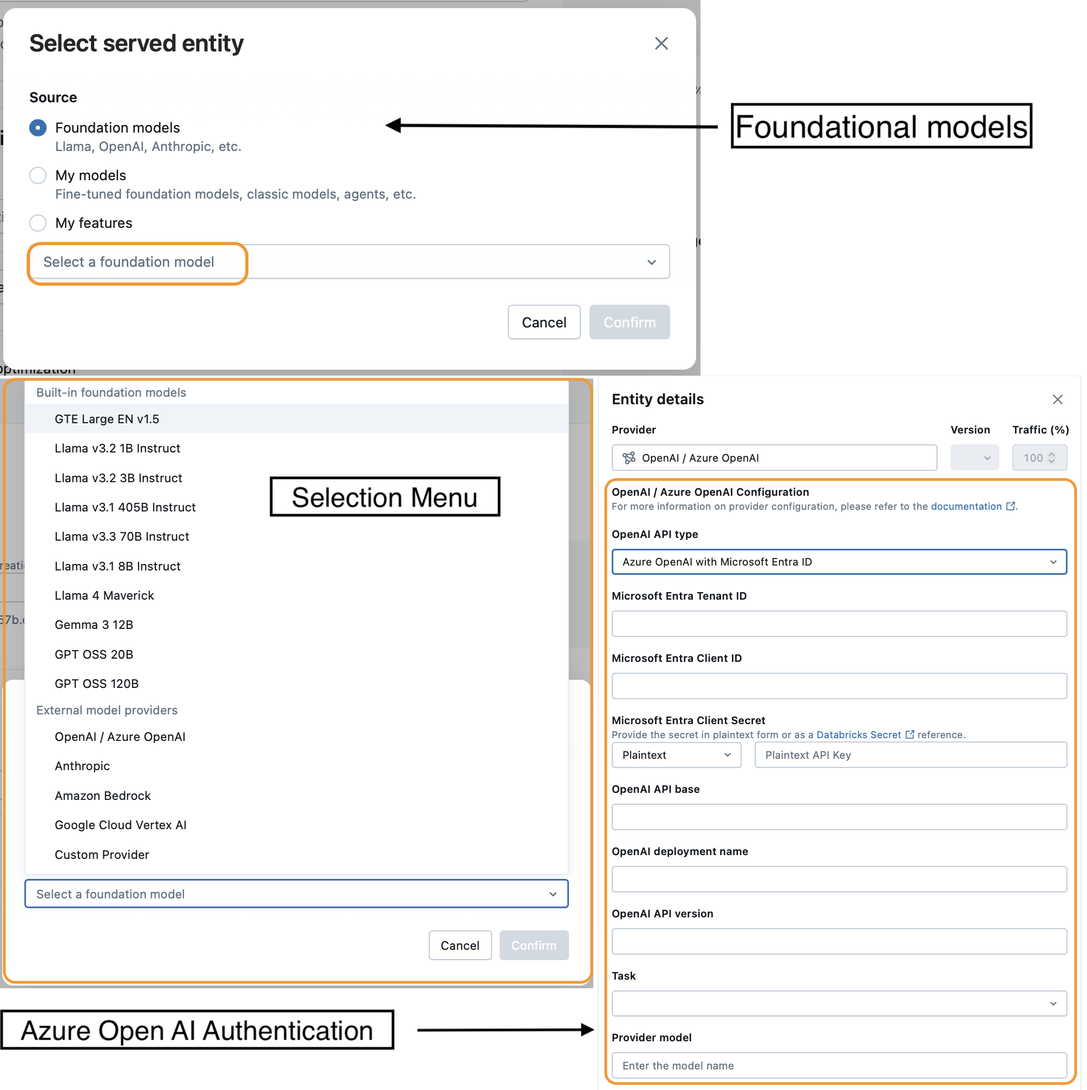
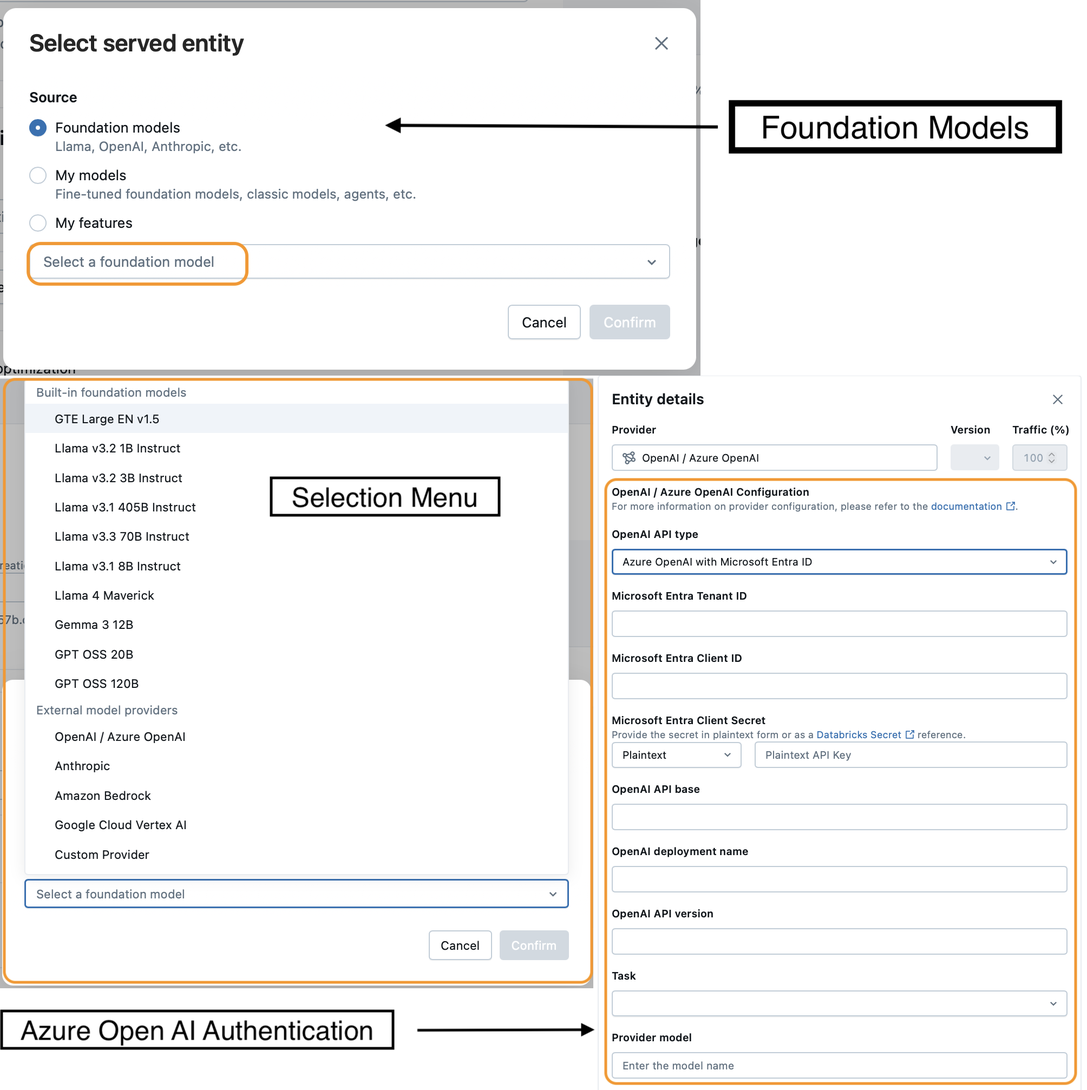
last changes

Changed region(s): [[0.6484, 0.0924, 0.988, 0.1539]]

diff --git a/public/posts/ai-gateway/index.html b/public/posts/ai-gateway/index.html
@@ -161,23 +161,23 @@ Although Mosaic AI Gateway comes with many powerful features, one capability is 
 <p>The simplest way to enable tracing while maintaining access to the features of Mosaic AI Gateway is to create and deploy a <strong>ResponsesAgent</strong> model in Databricks. This model type has MLflow Tracing enabled by default, and when hosted through the Gateway, you retain the same production capabilities (including rate limiting, logging, guardrails, and more).</p>
 <p>In short, this model gives you the best of both worlds: full Gateway functionality and detailed trace data for every request.</p>
 <p>If you’re here just for the implementation, you can skip to the section on <a href="#attempt-3-responses-agent">ResponsesAgent</a>. But if you’re curious how I arrived at this solution, stick around, as the next sections cover the other approaches I tried, the dead ends I hit, and how they led me to this path.</p>
-<h2 id="attempt-1-foundational-models">Attempt 1: Foundational Models<a hidden class="anchor" aria-hidden="true" href="#attempt-1-foundational-models">#</a></h2>
+<h2 id="attempt-1-foundational-models">Attempt 1: Foundation Models<a hidden class="anchor" aria-hidden="true" href="#attempt-1-foundational-models">#</a></h2>
 <p>Like anyone learning a new system, I started at the beginning, the <a href="https://learn.microsoft.com/en-us/azure/databricks/ai-gateway/">Mosaic AI Gateway Introduction</a> page. It includes a table showing which features each model type supports:</p>
 <p><img alt="Databricks Table" loading="lazy" src="/ai-gateway/ai-gateway-table-edited.png"></p>
-<p>At first glance, <strong>external model endpoints</strong> seemed the most capable. However, for this walkthrough, I focused on <strong>foundational models</strong>. They’re easier for readers to follow since they don’t require setting up authentication or external service access. Aside from that, foundational and external models behave almost identically in configuration, serving, and Gateway features.</p>
-<p>As a newcomer, I assumed I could host a foundational model and get tracing automatically. My first goal was to spin up an endpoint to see if this was possible.</p>
-<h3 id="creating-a-foundational-model-endpoint">Creating a Foundational Model Endpoint<a hidden class="anchor" aria-hidden="true" href="#creating-a-foundational-model-endpoint">#</a></h3>
+<p>At first glance, <strong>external model endpoints</strong> seemed the most capable. However, for this walkthrough, I focused on <strong>foundation models</strong>. They’re easier for readers to follow since they don’t require setting up authentication or external service access. Aside from that, foundation and external models behave almost identically in configuration, serving, and Gateway features.</p>
+<p>As a newcomer, I assumed I could host a foundation model and get tracing automatically. My first goal was to spin up an endpoint to see if this was possible.</p>
+<h3 id="creating-a-foundational-model-endpoint">Creating a Foundation Model Endpoint<a hidden class="anchor" aria-hidden="true" href="#creating-a-foundational-model-endpoint">#</a></h3>
 <p>When creating infrastructure in Databricks, there are usually multiple paths to the same result — Terraform, Python, SQL, or the UI. For investigative work like this, I prefer the UI. It makes it easy to explore configurations and verify behavior visually, even though in production you’d typically automate the process.</p>
-<p>To create an endpoint, go to <strong>Serving → Create Serving Endpoint</strong>, then choose <strong>Foundational Models</strong> in the <em>Served Entities</em> section. This opens the endpoint creation menu shown below. Working through it from top to bottom, first give your endpoint a name, then configure the <em>Served Entities</em> section.</p>
+<p>To create an endpoint, go to <strong>Serving → Create Serving Endpoint</strong>, then choose <strong>Foundation Models</strong> in the <em>Served Entities</em> section. This opens the endpoint creation menu shown below. Working through it from top to bottom, first give your endpoint a name, then configure the <em>Served Entities</em> section.</p>
 <p><img alt="Endpoint Options" loading="lazy" src="/ai-gateway/endpoint-menu.png"></p>
-<p>Click <strong>Select an Entity</strong>, choose <strong>Foundational Models</strong> from the radio list, then click <strong>Select a foundational model</strong> in the box. You&rsquo;ll see a new pop-up menu listing both foundational and external models.</p>
+<p>Click <strong>Select an Entity</strong>, choose <strong>Foundation Models</strong> from the radio list, then click <strong>Select a foundation model</strong> in the box. You&rsquo;ll see a new pop-up menu listing both foundation and external models.</p>
 <p><img alt="Entity Menu Creation Guide" loading="lazy" src="/ai-gateway/endpoint-menu-guide.png"></p>
-<p>This can be confusing at first because the pop-up menu is labeled Foundational Models, yet it also lists external providers. I’m calling this out for two reasons:</p>
+<p>This can be confusing at first because the pop-up menu is labeled Foundation Models, yet it also lists external providers. I’m calling this out for two reasons:</p>
 <ol>
 <li>If you&rsquo;d like to configure an <strong>external model</strong>, this is where you’ll configure authentication and provider settings. Take note of the endpoint name, as you’ll reference it later when setting up your ResponsesAgent.</li>
 <li>It highlights how similar these two endpoint types really are. Authentication is the only major difference; otherwise, the setup flow is nearly identical.</li>
 </ol>
-<p>Once you’ve chosen a foundational model (in this case, I selected <strong>GPT OSS 20B</strong> for the foundational model endpoint demo, though I use a different model in the code examples later), you’ll see the configuration screen below.</p>
+<p>Once you’ve chosen a foundation model (in this case, I selected <strong>GPT OSS 20B</strong> for the foundation model endpoint demo, though I use a different model in the code examples later), you’ll see the configuration screen below.</p>
 <p><img alt="Model UI Options" loading="lazy" src="/ai-gateway/model-ui-options.png"></p>
 <p>You can set throughput and scaling options here — but notice what’s missing: <strong>there’s no tracing toggle</strong>.</p>
 <blockquote>
@@ -192,10 +192,10 @@ Although Mosaic AI Gateway comes with many powerful features, one capability is 
 <p>As you&rsquo;ll find if you start to go through the docs as well, most examples show how to trace one request from a notebook, not how to create an endpoint creates a trace for each request it receives. Eventually, I found <a href="https://learn.microsoft.com/en-us/azure/databricks/mlflow3/genai/tracing/prod-tracing">&ldquo;Deploy agents with tracing&rdquo;</a>, which pointed me in the right direction.</p>
 <p>I was skeptical of the ResponsesAgents at first. Initially, I thought <em>Why would I need an agent for something this simple</em>? But that article sparked an idea — what if I created a <strong>wrapper model</strong> that calls the underlying model and handles tracing automatically? That became the seed for my next experiment.</p>
 <h2 id="attempt-2-custom-python-model">Attempt 2: Custom Python Model<a hidden class="anchor" aria-hidden="true" href="#attempt-2-custom-python-model">#</a></h2>
-<p>If foundational models couldn’t generate traces directly, then I needed something that could. The solution was a wrapper model, a lightweight layer that receives a request, forwards it to the underlying model, and returns the response unchanged. The difference is that the wrapper can be configured to add tracing to each request by default.</p>
+<p>If foundation models couldn’t generate traces directly, then I needed something that could. The solution was a wrapper model, a lightweight layer that receives a request, forwards it to the underlying model, and returns the response unchanged. The difference is that the wrapper can be configured to add tracing to each request by default.</p>
 <p>Here&rsquo;s the plan:</p>
 <ol>
-<li>Build a small model class that wraps around our foundational model.</li>
+<li>Build a small model class that wraps around our foundation model.</li>
 <li>Configure the class so that tracing is enabled by default.</li>
 <li>Register the model in Unity Catalog.</li>
 <li>Deploy it as a Serving Endpoint, with full AI Gateway functionality and tracing.</li>
@@ -205,13 +205,13 @@ Although Mosaic AI Gateway comes with many powerful features, one capability is 
 <p>Once I knew I needed a wrapper, the question became: <em>how should I define it in MLflow</em>? There were two clear paths:</p>
 <ul>
 <li><strong>Custom Python Model</strong> — Define your own the <code>PythonModel</code> class and implement your own prediction functions.</li>
-<li><strong>Responses Agent Model</strong> — Use the <code>ResponsesAgent</code> class to create a agent model that calls your foundational model under the hood.</li>
+<li><strong>Responses Agent Model</strong> — Use the <code>ResponsesAgent</code> class to create a agent model that calls your foundation model under the hood.</li>
 </ul>
 <p>As I mentioned before, I had my doubts about ResponsesAgents so I decided to start with the <strong>Custom Python Model</strong>. My goal wasn’t to build a full agent-based system, I just wanted to trace model calls. That made the <strong>Custom Python Model</strong> path seem like the most straightforward solution.</p>
 <p>That said, the <a href="https://learn.microsoft.com/en-us/azure/databricks/generative-ai/guide/introduction-generative-ai-apps">Gen AI Apps guide</a> clearly recommends using response agents over custom python models. However, I still wasn&rsquo;t convinced.</p>
 <p>So I built the Python model — and, as you can probably guess, it worked, but not as well as I’d hoped. Once it was running, I compared it to a <code>ResponsesAgent</code> implementation and found that the agent approach was cleaner, better aligned with the newer OpenAI Responses API, and more future-proof as the platform continues to evolve.</p>
 <h3 id="implementing-a-custom-python-model">Implementing a Custom Python Model<a hidden class="anchor" aria-hidden="true" href="#implementing-a-custom-python-model">#</a></h3>
-<p>To create a custom model in MLflow, you define a class that inherits from <code>mlflow.pyfunc.PythonModel</code>. The key method is <code>predict()</code>, which receives input and returns output. In our case, it simply forwards each request to a foundational model and returns the response, acting as a transparent wrapper.</p>
+<p>To create a custom model in MLflow, you define a class that inherits from <code>mlflow.pyfunc.PythonModel</code>. The key method is <code>predict()</code>, which receives input and returns output. In our case, it simply forwards each request to a foundation model and returns the response, acting as a transparent wrapper.</p>
 <p>If you’d like to dig deeper, these are the main references I used:</p>
 <ul>
 <li><a href="https://mlflow.org/docs/latest/ml/model/python_model/">MLflow Python Model Guide</a></li>
@@ -300,8 +300,8 @@ Although Mosaic AI Gateway comes with many powerful features, one capability is 
 </span></span><span class="line"><span class="cl"><span class="n">mlflow</span><span class="o">.</span><span class="n">set_experiment</span><span class="p">(</span><span class="s2">&#34;/Shared/mn-demo-experiments&#34;</span><span class="p">)</span>
 </span></span><span class="line"><span class="cl"><span class="n">mlflow</span><span class="o">.</span><span class="n">models</span><span class="o">.</span><span class="n">set_model</span><span class="p">(</span><span class="n">ModelWrapper</span><span class="p">())</span>
 </span></span></code></pre></div><p>The <code>%%writefile</code> command writes this cell’s contents to the <code>model.py</code> file. This is required because the model registration step needs to read in the model from a Python file. We could have placed this code in the file manually and omited this cell from the notebook. However, the <code>%%writefile</code> command allows us to keep all the code self-contained within a single notebook.</p>
-<p>The <code>ModelWrapper</code> class inherits from <code>PythonModel</code>, the standard interface for custom MLflow models. Inside the constructor, we initialize a <code>WorkspaceClient</code>, which handles communication with existing serving endpoints. This client lets the wrapper forward requests to either a foundational model or an external endpoint already registered in Databricks.</p>
-<p>At this point, if you’d like to connect to an <strong>external model</strong> instead of a foundational one, follow these steps below:</p>
+<p>The <code>ModelWrapper</code> class inherits from <code>PythonModel</code>, the standard interface for custom MLflow models. Inside the constructor, we initialize a <code>WorkspaceClient</code>, which handles communication with existing serving endpoints. This client lets the wrapper forward requests to either a foundation model or an external endpoint already registered in Databricks.</p>
+<p>At this point, if you’d like to connect to an <strong>external model</strong> instead of a foundation model, follow these steps below:</p>
 <ol>
 <li>Follow the steps in Attempt 1 to create a serving endpoint for your external model (e.g., <code>external-model-endpoint</code>).</li>
 <li>Replace the <code>model</code> parameter in the <code>chat.completions.create()</code> call with the name of your external model.</li>
@@ -604,7 +604,7 @@ argument; without it, you’ll get a <code>UserWarning</code> when interacting w
 <div class="highlight"><pre tabindex="0" class="chroma"><code class="language-python" data-lang="python"><span class="line"><span class="cl"><span class="kn">from</span> <span class="nn">openai</span> <span class="kn">import</span> <span class="n">OpenAI</span>
 </span></span><span class="line"><span class="cl">
 </span></span><span class="line"><span class="cl"><span class="n">client</span> <span class="o">=</span> <span class="n">OpenAI</span><span class="p">()</span>
-</span></span></code></pre></div><p>This approach works for external models that support the Responses API (though some older models don’t). However, it requires manual environment variable setup for authentication and access to an external model. For this guide, I chose to stay within Databricks’ built-in foundational models to keep things simpler.</p>
+</span></span></code></pre></div><p>This approach works for external models that support the Responses API (though some older models don’t). However, it requires manual environment variable setup for authentication and access to an external model. For this guide, I chose to stay within Databricks’ built-in foundation models to keep things simpler.</p>
 <p><strong>Wrapping Up <code>predict()</code></strong></p>
 <p>Once the messages are translated, the model call proceeds as usual. The last step is to return a response object that conforms to the <code>ResponsesAgentResponse</code> schema:</p>
 <div class="highlight"><pre tabindex="0" class="chroma"><code class="language-python" data-lang="python"><span class="line"><span class="cl">        <span class="k">return</span> <span class="n">ResponsesAgentResponse</span><span class="p">(</span>
@@ -677,7 +677,7 @@ argument; without it, you’ll get a <code>UserWarning</code> when interacting w
 </div>
 <h2 id="conclusion">Conclusion<a hidden class="anchor" aria-hidden="true" href="#conclusion">#</a></h2>
 <p>It was a long journey to arrive at the <strong>Responses Agent</strong> approach, but hopefully one that made the reasoning clear.</p>
-<p>If you’ve followed along from the beginning, you’ve seen how a newcomer might start with foundational models, experiment with custom Python models, and eventually discover that Responses Agents offer the most reliable, traceable path forward.</p>
+<p>If you’ve followed along from the beginning, you’ve seen how a newcomer might start with foundation models, experiment with custom Python models, and eventually discover that Responses Agents offer the most reliable, traceable path forward.</p>
 <p>If you take away just a few things, let them be these:</p>
 <p>You now understand how <strong>Mosaic AI Gateway</strong>, model serving, Python models, and Responses Agents fit together.</p>
 <p>And if you’re building something similar, you can confidently start with <strong>Responses Agents</strong>, knowing the alternatives have been explored and tested.</p>

diff --git a/content/posts/ai-gateway.md b/content/posts/ai-gateway.md
@@ -32,34 +32,34 @@ In short, this model gives you the best of both worlds: full Gateway functionali
 
 If you’re here just for the implementation, you can skip to the section on [ResponsesAgent](#attempt-3-responses-agent). But if you’re curious how I arrived at this solution, stick around, as the next sections cover the other approaches I tried, the dead ends I hit, and how they led me to this path.
 
-## Attempt 1: Foundational Models
+## Attempt 1: Foundation Models
 
 Like anyone learning a new system, I started at the beginning, the [Mosaic AI Gateway Introduction](https://learn.microsoft.com/en-us/azure/databricks/ai-gateway/) page. It includes a table showing which features each model type supports:
 
 ![Databricks Table](/ai-gateway/ai-gateway-table-edited.png)
 
-At first glance, **external model endpoints** seemed the most capable. However, for this walkthrough, I focused on **foundational models**. They’re easier for readers to follow since they don’t require setting up authentication or external service access. Aside from that, foundational and external models behave almost identically in configuration, serving, and Gateway features.
+At first glance, **external model endpoints** seemed the most capable. However, for this walkthrough, I focused on **foundation models**. They’re easier for readers to follow since they don’t require setting up authentication or external service access. Aside from that, foundation and external models behave almost identically in configuration, serving, and Gateway features.
 
-As a newcomer, I assumed I could host a foundational model and get tracing automatically. My first goal was to spin up an endpoint to see if this was possible.
+As a newcomer, I assumed I could host a foundation model and get tracing automatically. My first goal was to spin up an endpoint to see if this was possible.
 
 ### Creating a Foundational Model Endpoint
 
 When creating infrastructure in Databricks, there are usually multiple paths to the same result — Terraform, Python, SQL, or the UI. For investigative work like this, I prefer the UI. It makes it easy to explore configurations and verify behavior visually, even though in production you’d typically automate the process.
 
-To create an endpoint, go to **Serving → Create Serving Endpoint**, then choose **Foundational Models** in the *Served Entities* section. This opens the endpoint creation menu shown below. Working through it from top to bottom, first give your endpoint a name, then configure the *Served Entities* section.
+To create an endpoint, go to **Serving → Create Serving Endpoint**, then choose **Foundation Models** in the *Served Entities* section. This opens the endpoint creation menu shown below. Working through it from top to bottom, first give your endpoint a name, then configure the *Served Entities* section.
 
 ![Endpoint Options](/ai-gateway/endpoint-menu.png)
 
-Click **Select an Entity**, choose **Foundational Models** from the radio list, then click **Select a foundational model** in the box. You'll see a new pop-up menu listing both foundational and external models.
+Click **Select an Entity**, choose **Foundation Models** from the radio list, then click **Select a foundation model** in the box. You'll see a new pop-up menu listing both foundation and external models.
 
 ![Entity Menu Creation Guide](/ai-gateway/endpoint-menu-guide.png)
 
-This can be confusing at first because the pop-up menu is labeled Foundational Models, yet it also lists external providers. I’m calling this out for two reasons:
+This can be confusing at first because the pop-up menu is labeled Foundation Models, yet it also lists external providers. I’m calling this out for two reasons:
 
 1. If you'd like to configure an **external model**, this is where you’ll configure authentication and provider settings. Take note of the endpoint name, as you’ll reference it later when setting up your ResponsesAgent.
 2. It highlights how similar these two endpoint types really are. Authentication is the only major difference; otherwise, the setup flow is nearly identical.
 
-Once you’ve chosen a foundational model (in this case, I selected **GPT OSS 20B** for the foundational model endpoint demo, though I use a different model in the code examples later), you’ll see the configuration screen below.
+Once you’ve chosen a foundation model (in this case, I selected **GPT OSS 20B** for the foundation model endpoint demo, though I use a different model in the code examples later), you’ll see the configuration screen below.
 
 ![Model UI Options](/ai-gateway/model-ui-options.png)
 
@@ -82,11 +82,11 @@ I was skeptical of the ResponsesAgents at first. Initially, I thought *Why would
 
 ## Attempt 2: Custom Python Model
 
-If foundational models couldn’t generate traces directly, then I needed something that could. The solution was a wrapper model, a lightweight layer that receives a request, forwards it to the underlying model, and returns the response unchanged. The difference is that the wrapper can be configured to add tracing to each request by default.
+If foundation models couldn’t generate traces directly, then I needed something that could. The solution was a wrapper model, a lightweight layer that receives a request, forwards it to the underlying model, and returns the response unchanged. The difference is that the wrapper can be configured to add tracing to each request by default.
 
 Here's the plan:
 
-1. Build a small model class that wraps around our foundational model.
+1. Build a small model class that wraps around our foundation model.
 2. Configure the class so that tracing is enabled by default.
 3. Register the model in Unity Catalog.
 4. Deploy it as a Serving Endpoint, with full AI Gateway functionality and tracing.
@@ -98,7 +98,7 @@ This approach gives you the same Gateway functionality as before, but with compl
 Once I knew I needed a wrapper, the question became: *how should I define it in MLflow*? There were two clear paths:
 
 - **Custom Python Model** — Define your own the `PythonModel` class and implement your own prediction functions.
-- **Responses Agent Model** — Use the `ResponsesAgent` class to create a agent model that calls your foundational model under the hood.
+- **Responses Agent Model** — Use the `ResponsesAgent` class to create a agent model that calls your foundation model under the hood.
 
 As I mentioned before, I had my doubts about ResponsesAgents so I decided to start with the **Custom Python Model**. My goal wasn’t to build a full agent-based system, I just wanted to trace model calls. That made the **Custom Python Model** path seem like the most straightforward solution.
 
@@ -108,7 +108,7 @@ So I built the Python model — and, as you can probably guess, it worked, but n
 
 ### Implementing a Custom Python Model
 
-To create a custom model in MLflow, you define a class that inherits from `mlflow.pyfunc.PythonModel`. The key method is `predict()`, which receives input and returns output. In our case, it simply forwards each request to a foundational model and returns the response, acting as a transparent wrapper.
+To create a custom model in MLflow, you define a class that inherits from `mlflow.pyfunc.PythonModel`. The key method is `predict()`, which receives input and returns output. In our case, it simply forwards each request to a foundation model and returns the response, acting as a transparent wrapper.
 
 If you’d like to dig deeper, these are the main references I used:
 
@@ -179,9 +179,9 @@ mlflow.models.set_model(ModelWrapper())
 
 The `%%writefile` command writes this cell’s contents to the `model.py` file. This is required because the model registration step needs to read in the model from a Python file. We could have placed this code in the file manually and omited this cell from the notebook. However, the `%%writefile` command allows us to keep all the code self-contained within a single notebook.
 
-The `ModelWrapper` class inherits from `PythonModel`, the standard interface for custom MLflow models. Inside the constructor, we initialize a `WorkspaceClient`, which handles communication with existing serving endpoints. This client lets the wrapper forward requests to either a foundational model or an external endpoint already registered in Databricks.
+The `ModelWrapper` class inherits from `PythonModel`, the standard interface for custom MLflow models. Inside the constructor, we initialize a `WorkspaceClient`, which handles communication with existing serving endpoints. This client lets the wrapper forward requests to either a foundation model or an external endpoint already registered in Databricks.
 
-At this point, if you’d like to connect to an **external model** instead of a foundational one, follow these steps below:
+At this point, if you’d like to connect to an **external model** instead of a foundation model, follow these steps below:
 
 1. Follow the steps in Attempt 1 to create a serving endpoint for your external model (e.g., `external-model-endpoint`).
 2. Replace the `model` parameter in the `chat.completions.create()` call with the name of your external model.
@@ -578,7 +578,7 @@ from openai import OpenAI
 client = OpenAI()
 ```
 
-This approach works for external models that support the Responses API (though some older models don’t). However, it requires manual environment variable setup for authentication and access to an external model. For this guide, I chose to stay within Databricks’ built-in foundational models to keep things simpler.
+This approach works for external models that support the Responses API (though some older models don’t). However, it requires manual environment variable setup for authentication and access to an external model. For this guide, I chose to stay within Databricks’ built-in foundation models to keep things simpler.
 
 **Wrapping Up `predict()`**
 
@@ -678,7 +678,7 @@ I won’t demonstrate the REST endpoint here — there’s no meaningful differe
 
 It was a long journey to arrive at the **Responses Agent** approach, but hopefully one that made the reasoning clear.
 
-If you’ve followed along from the beginning, you’ve seen how a newcomer might start with foundational models, experiment with custom Python models, and eventually discover that Responses Agents offer the most reliable, traceable path forward.
+If you’ve followed along from the beginning, you’ve seen how a newcomer might start with foundation models, experiment with custom Python models, and eventually discover that Responses Agents offer the most reliable, traceable path forward.
 
 If you take away just a few things, let them be these:
 
